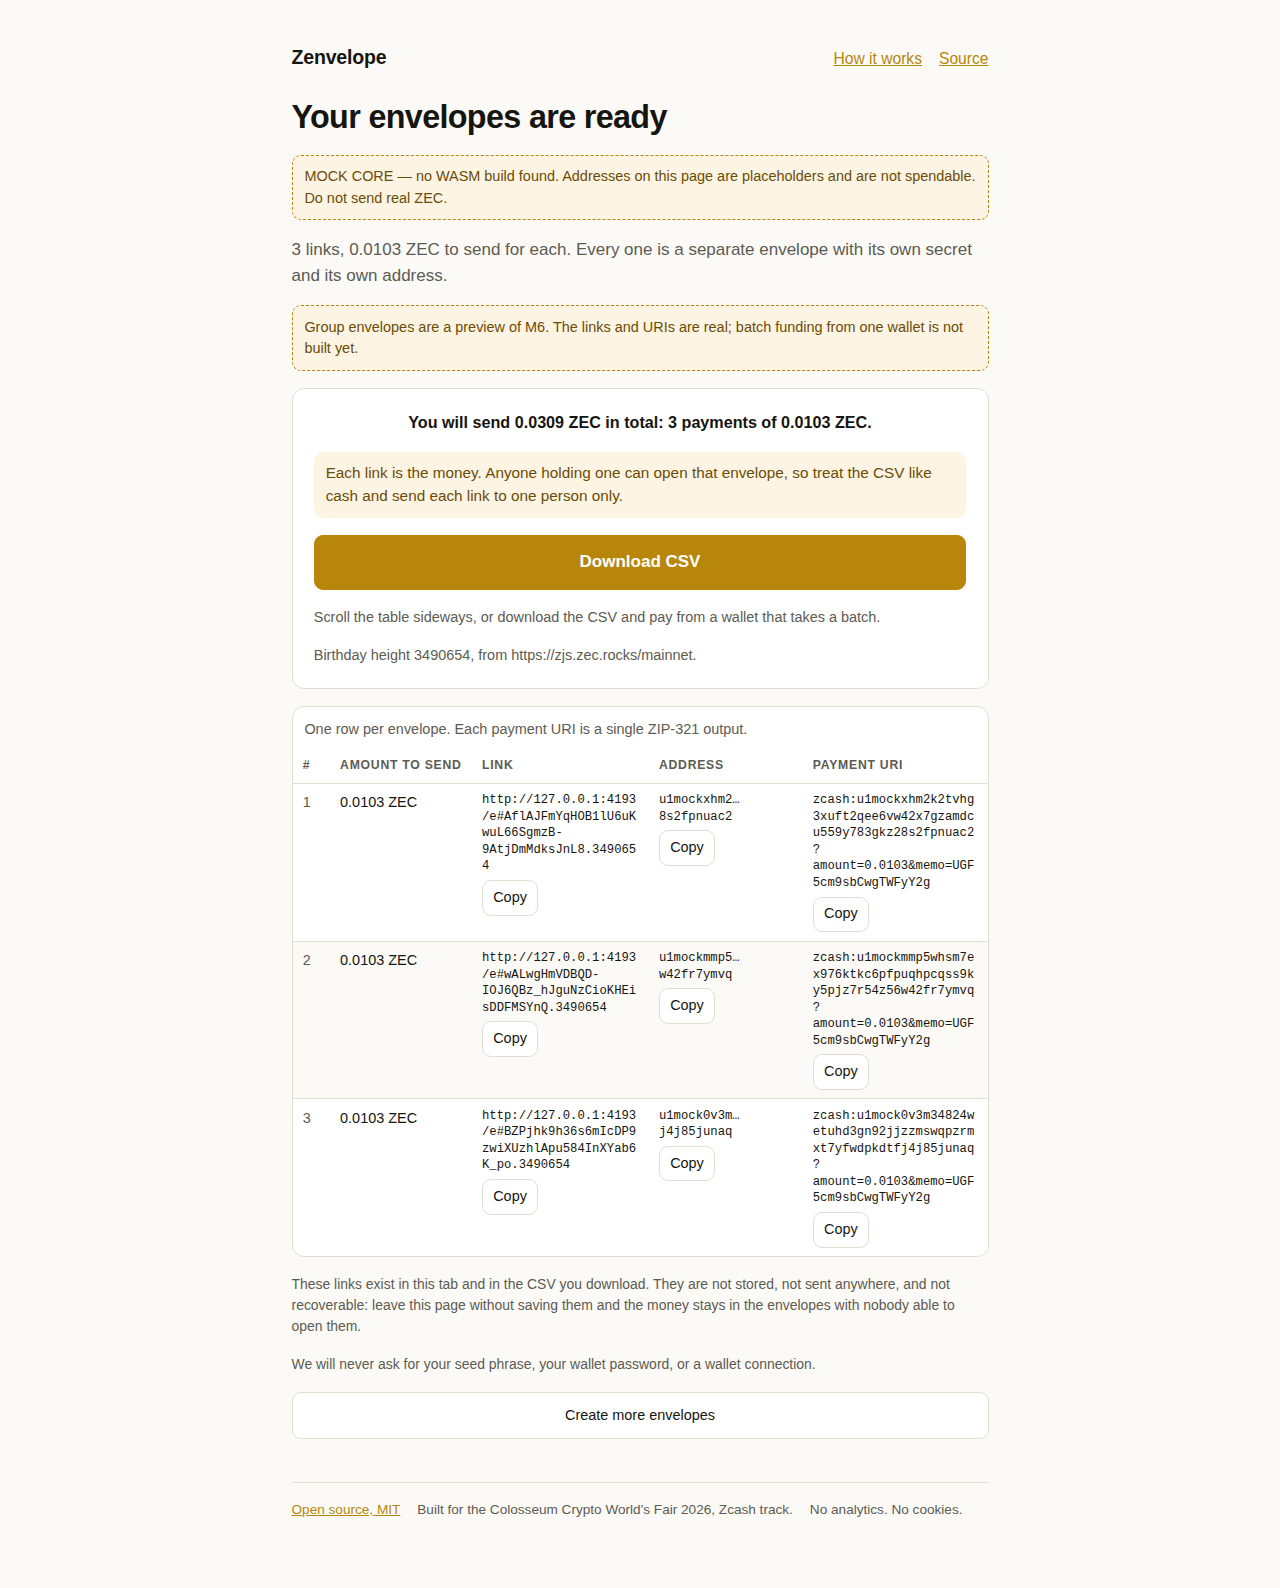
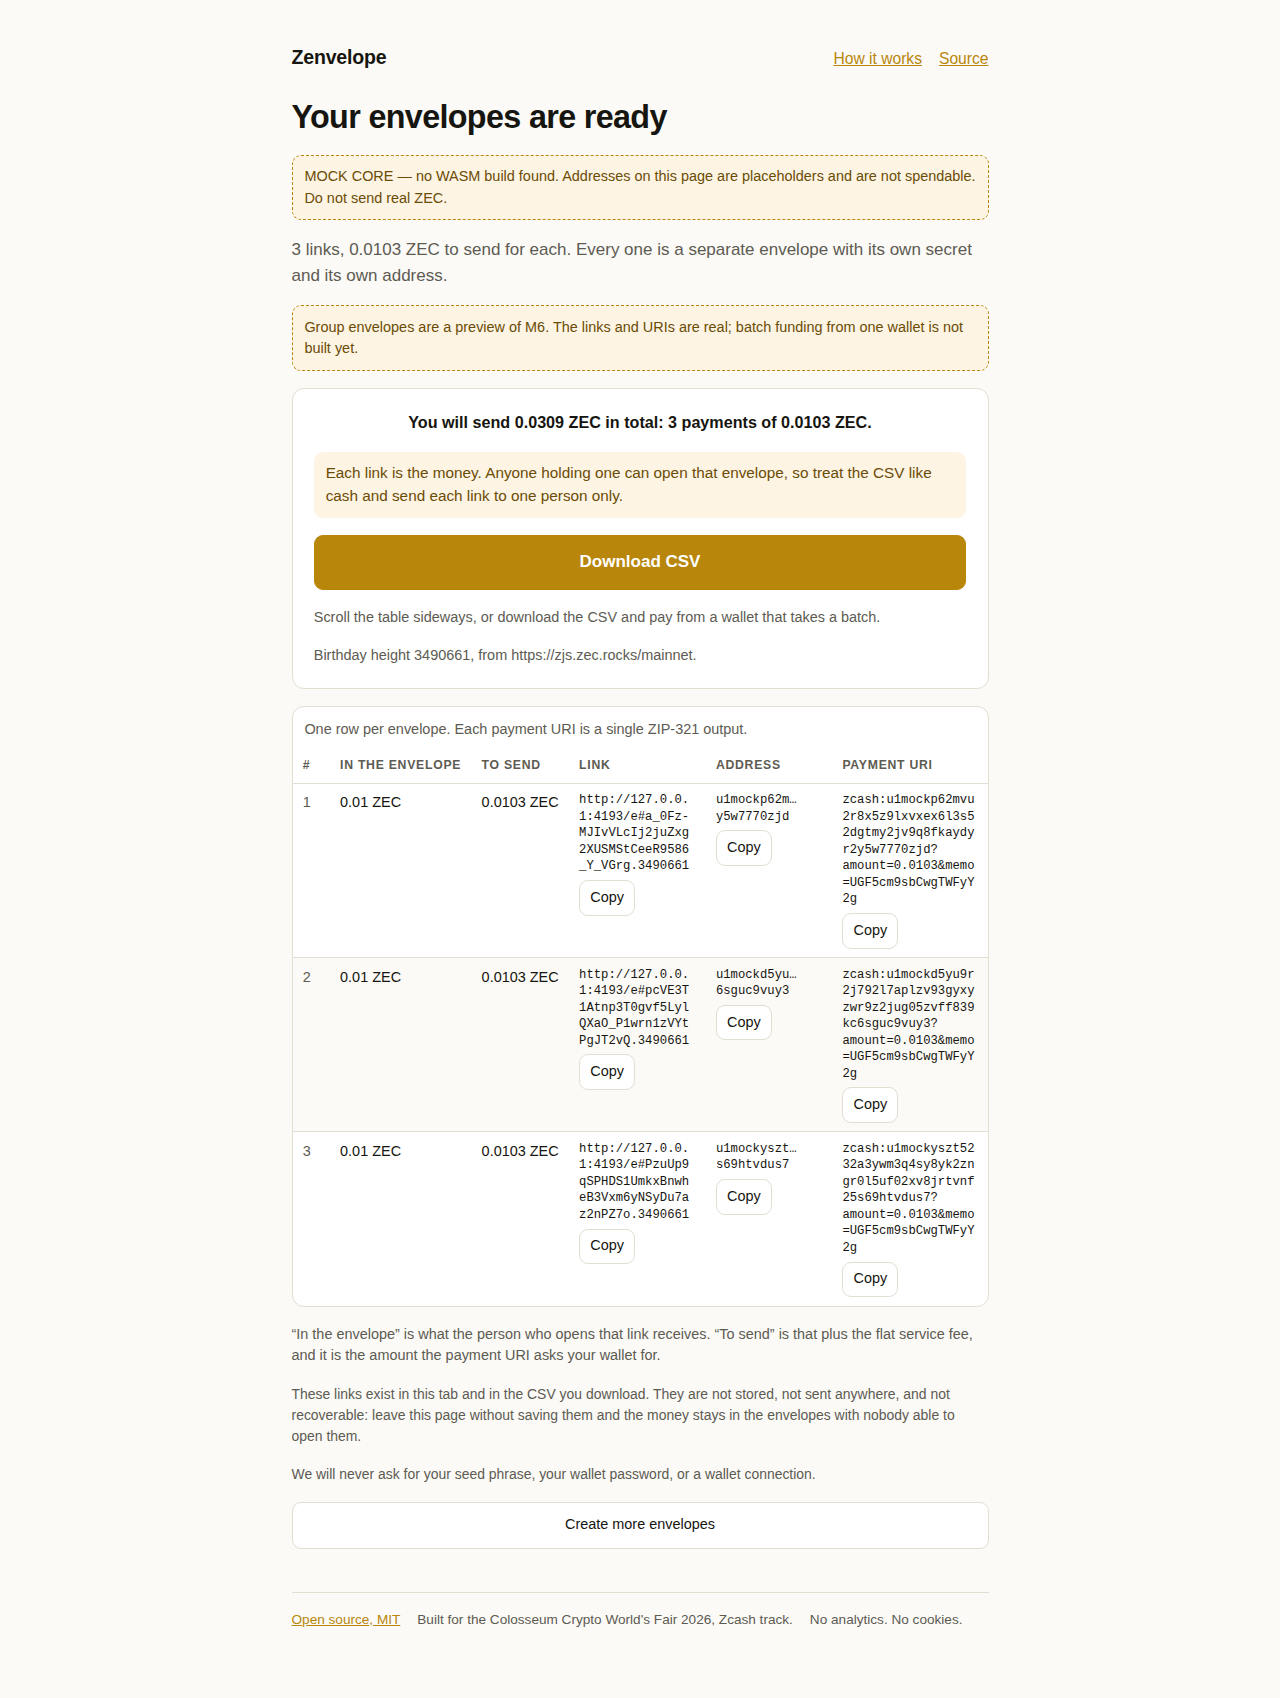
Group CSV: separate envelope_zec from send_zec
One "amount" column answered two questions at once, which is how somebody
underpays fifty envelopes in a row. The CSV now carries both:

  envelope_zec  what the person who opens that link receives
  send_zec      that plus the flat service fee, which is exactly the amount
                the payment_uri asks the sender's wallet for

The group table gains the matching pair of columns, "In the envelope" and
"To send", with a line under it saying which is which, and GroupEnvelope
carries envelopeZat/envelopeZec beside sendZat/sendZec instead of one
amountZat/amount. groupTotal still sums what the sender pays.

Header row is now index,link,address,envelope_zec,send_zec,memo,payment_uri.

vitest 230 passed in 14 files; MOCK e2e 12 passed, 15 skipped, which reads
the downloaded CSV back and checks both columns against the URI.

diff --git a/web/src/lib/group.ts b/web/src/lib/group.ts
@@ -39,10 +39,18 @@ export interface GroupEnvelope {
    * amounts and memos, and a spreadsheet is the wrong place to leave it.
    */
   ufvk: string;
-  /** Zatoshi the sender must send for this envelope: amount + flat service fee. */
-  amountZat: bigint;
-  /** The same number as a ZEC decimal string, matching the URI's `amount=`. */
-  amount: string;
+  /** Zatoshi the person who opens this envelope receives. */
+  envelopeZat: bigint;
+  /** The same number as a ZEC decimal string: the CSV's `envelope_zec`. */
+  envelopeZec: string;
+  /** Zatoshi the sender must send: the envelope plus the flat service fee. */
+  sendZat: bigint;
+  /**
+   * The same number as a ZEC decimal string: the CSV's `send_zec`, and exactly
+   * the `amount=` the URI carries. Paying the URI and paying this column are
+   * therefore the same act, which is the point of having both.
+   */
+  sendZec: string;
   /** The sender's message. The same for every envelope in a group; "" when none. */
   memo: string;
   /** Single-output ZIP-321, exactly what a wallet is handed. */
@@ -122,8 +130,10 @@ export async function generateGroup(
   }
   if (req.envelopeZat <= 0n) throw new Error("the envelope amount must be positive");
 
-  const amountZat = req.envelopeZat + req.feeZat;
-  const amount = zatToZecString(amountZat);
+  const envelopeZat = req.envelopeZat;
+  const envelopeZec = zatToZecString(envelopeZat);
+  const sendZat = envelopeZat + req.feeZat;
+  const sendZec = zatToZecString(sendZat);
   const seen = new Set<string>();
   const out: GroupEnvelope[] = [];
 
@@ -136,7 +146,7 @@ export async function generateGroup(
     const fragment = await core.build_fragment(secret, req.birthday);
     const uri = await core.payment_uri(
       derived.address,
-      amountZat,
+      sendZat,
       req.message === "" ? undefined : req.message,
     );
     out.push({
@@ -144,8 +154,10 @@ export async function generateGroup(
       link: `${req.origin}/e#${fragment}`,
       address: derived.address,
       ufvk: derived.ufvk,
-      amountZat,
-      amount,
+      envelopeZat,
+      envelopeZec,
+      sendZat,
+      sendZec,
       memo: req.message,
       uri,
     });
@@ -156,12 +168,21 @@ export async function generateGroup(
 
 /* --------------------------------------------------------------------- CSV */
 
-/** The header row, in order. Fixed: a spreadsheet somewhere will depend on it. */
+/**
+ * The header row, in order. Fixed: a spreadsheet somewhere will depend on it.
+ *
+ * Two amount columns, because they answer two different questions and conflating
+ * them is how somebody underpays fifty envelopes at once. `envelope_zec` is what
+ * the person who opens that link receives; `send_zec` is what the sender must
+ * actually send for it — the envelope plus the flat service fee — and it is the
+ * same number the `payment_uri` carries in its `amount=`.
+ */
 export const CSV_COLUMNS = [
   "index",
   "link",
   "address",
-  "amount",
+  "envelope_zec",
+  "send_zec",
   "memo",
   "payment_uri",
 ] as const;
@@ -191,11 +212,6 @@ export function csvCell(value: string): string {
 /**
  * The whole file: a header row and one row per envelope, CRLF terminated per
  * RFC 4180 so Excel on Windows reads it without a fight.
- *
- * `amount` is what the sender must actually send for that envelope — the
- * envelope amount plus the flat service fee — and it is the same number the
- * `payment_uri` carries in its `amount=`. Paying the URI and paying the amount
- * column are therefore the same act, which is the point of having both.
  */
 export function buildCsv(rows: readonly GroupEnvelope[]): string {
   const lines = [CSV_COLUMNS.join(",")];
@@ -205,7 +221,8 @@ export function buildCsv(rows: readonly GroupEnvelope[]): string {
         csvCell(String(r.index)),
         csvCell(r.link),
         csvCell(r.address),
-        csvCell(r.amount),
+        csvCell(r.envelopeZec),
+        csvCell(r.sendZec),
         csvCell(r.memo),
         csvCell(r.uri),
       ].join(","),
@@ -223,7 +240,7 @@ export function csvFilename(count: number, now: Date = new Date()): string {
 
 /** The sum the sender is about to pay, as a ZEC string. */
 export function groupTotal(rows: readonly GroupEnvelope[]): string {
-  return zatToZecString(rows.reduce((acc, r) => acc + r.amountZat, 0n));
+  return zatToZecString(rows.reduce((acc, r) => acc + r.sendZat, 0n));
 }
 
 /**

diff --git a/web/src/lib/group.test.ts b/web/src/lib/group.test.ts
@@ -104,12 +104,17 @@ describe("generateGroup over the core worker", () => {
     }
   });
 
-  it("charges the same amount for each: envelope plus the flat fee", async () => {
+  it("separates what the recipient gets from what the sender sends", async () => {
     const rows = await generateGroup(core, REQ);
     for (const r of rows) {
-      expect(r.amountZat).toBe(1_030_000n);
-      expect(r.amount).toBe("0.0103");
+      expect(r.envelopeZat).toBe(1_000_000n);
+      expect(r.envelopeZec).toBe("0.01");
+      expect(r.sendZat).toBe(1_030_000n);
+      expect(r.sendZec).toBe("0.0103");
+      // The ZIP-321 amount is the send amount, fee included: paying the URI and
+      // paying the send_zec column are the same act.
       expect(r.uri).toContain("amount=0.0103");
+      expect(r.sendZat - r.envelopeZat).toBe(REQ.feeZat);
     }
     expect(groupTotal(rows)).toBe("0.0309");
   });
@@ -210,9 +215,9 @@ describe("buildCsv", () => {
     lines = csv.split("\r\n");
   });
 
-  it("starts with the documented header, in order", () => {
-    expect(lines[0]).toBe("index,link,address,amount,memo,payment_uri");
-    expect(CSV_COLUMNS).toHaveLength(6);
+  it("starts with the documented header, in order, with both amount columns", () => {
+    expect(lines[0]).toBe("index,link,address,envelope_zec,send_zec,memo,payment_uri");
+    expect(CSV_COLUMNS).toHaveLength(7);
   });
 
   it("has one row per envelope and a trailing CRLF", () => {
@@ -227,10 +232,21 @@ describe("buildCsv", () => {
       expect(cells[0]).toBe(String(r.index));
       expect(cells[1]).toBe(r.link);
       expect(cells[2]).toBe(r.address);
-      expect(cells[3]).toBe(r.amount);
-      expect(cells[4]).toBe(r.memo);
+      expect(cells[3]).toBe(r.envelopeZec);
+      expect(cells[4]).toBe(r.sendZec);
+      expect(cells[5]).toBe(r.memo);
       expect(lines[i + 1]).toContain(r.uri);
     });
+  });
+
+  it("puts the envelope amount and the send amount in their own columns", () => {
+    for (let i = 0; i < rows.length; i++) {
+      const cells = lines[i + 1].split(",");
+      expect(cells[3]).toBe("0.01"); // what the recipient gets
+      expect(cells[4]).toBe("0.0103"); // what the sender sends, fee included
+      // And the second one is what the wallet is asked for.
+      expect(lines[i + 1]).toContain(`amount=${cells[4]}`);
+    }
   });
 
   it("quotes a memo with a comma in it rather than breaking the row", async () => {
@@ -250,7 +266,7 @@ describe("buildCsv", () => {
   });
 
   it("is empty but well formed for no rows", () => {
-    expect(buildCsv([])).toBe("index,link,address,amount,memo,payment_uri\r\n");
+    expect(buildCsv([])).toBe("index,link,address,envelope_zec,send_zec,memo,payment_uri\r\n");
   });
 
   it("does not contain the word this product never uses", () => {
@@ -267,14 +283,16 @@ describe("csvFilename", () => {
 });
 
 describe("groupTotal", () => {
-  it("sums in zatoshi, never in floating point", () => {
+  it("sums what the sender pays, in zatoshi, never in floating point", () => {
     const rows: GroupEnvelope[] = Array.from({ length: 3 }, (_, i) => ({
       index: i + 1,
       link: "",
       address: "",
       ufvk: "",
-      amountZat: 10_000_003n,
-      amount: "0.10000003",
+      envelopeZat: 9_970_003n,
+      envelopeZec: "0.09970003",
+      sendZat: 10_000_003n,
+      sendZec: "0.10000003",
       memo: "",
       uri: "",
     }));

diff --git a/web/e2e/m4-group.spec.ts b/web/e2e/m4-group.spec.ts
@@ -161,9 +161,22 @@ describeOnMock("M4: group envelopes (M6 preview)", () => {
     await expect(rows).toHaveCount(3);
     await expect(page.getByTestId("group-total")).toContainText("0.0309 ZEC in total");
 
+    // The header names both amounts rather than one ambiguous "Amount". Read as text
+    // content, not innerText: the column heads are uppercased by CSS, not by the copy.
+    const headers = await page.getByTestId("group-table").locator("thead th").allTextContents();
+    expect(headers).toEqual([
+      "#",
+      "In the envelope",
+      "To send",
+      "Link",
+      "Address",
+      "Payment URI",
+    ]);
+
     const links = await page.getByTestId("row-link").allInnerTexts();
     const uris = await page.getByTestId("row-uri").allInnerTexts();
-    const amounts = await page.getByTestId("row-amount").allInnerTexts();
+    const envelopeAmounts = await page.getByTestId("row-envelope").allInnerTexts();
+    const sendAmounts = await page.getByTestId("row-send").allInnerTexts();
     expect(new Set(links).size).toBe(3);
     expect(new Set(uris).size).toBe(3);
 
@@ -172,7 +185,9 @@ describeOnMock("M4: group envelopes (M6 preview)", () => {
       // Single-output ZIP-321: one address, one amount, no indexed parameters.
       expect(uris[i]).toMatch(/^zcash:[a-z0-9]+\?amount=0\.0103&memo=[A-Za-z0-9_-]+$/);
       expect(uris[i]).not.toMatch(/address\.\d/);
-      expect(amounts[i]).toBe("0.0103 ZEC");
+      // Two amount columns: what the recipient gets, and what the sender sends.
+      expect(envelopeAmounts[i]).toBe("0.01 ZEC");
+      expect(sendAmounts[i]).toBe("0.0103 ZEC");
     }
 
     // The link is the money, and the page says so.
@@ -197,14 +212,18 @@ describeOnMock("M4: group envelopes (M6 preview)", () => {
     const csv = readFileSync(path!, "utf8");
     const lines = csv.split("\r\n");
 
-    expect(lines[0]).toBe("index,link,address,amount,memo,payment_uri");
+    expect(lines[0]).toBe("index,link,address,envelope_zec,send_zec,memo,payment_uri");
     expect(lines).toHaveLength(5); // header + 3 rows + the trailing empty
     for (let i = 0; i < 3; i++) {
       const row = lines[i + 1];
       expect(row.startsWith(`${i + 1},`)).toBe(true);
       expect(row).toContain(links[i]);
       expect(row).toContain(uris[i]);
-      expect(row).toContain("0.0103");
+      // Both amounts, in their own columns, and the send amount is the URI's.
+      const cells = row.split(",");
+      expect(cells[3]).toBe("0.01");
+      expect(cells[4]).toBe("0.0103");
+      expect(row).toContain("amount=0.0103");
       // The memo has a comma in it, so it has to be quoted rather than split.
       expect(row).toContain('"Payroll, March"');
     }

diff --git a/web/src/pages/Create.tsx b/web/src/pages/Create.tsx
@@ -479,7 +479,8 @@ function GroupResult({
           <thead>
             <tr>
               <th scope="col">{groupCopy.columns.index}</th>
-              <th scope="col">{groupCopy.columns.amount}</th>
+              <th scope="col">{groupCopy.columns.envelope}</th>
+              <th scope="col">{groupCopy.columns.send}</th>
               <th scope="col">{groupCopy.columns.link}</th>
               <th scope="col">{groupCopy.columns.address}</th>
               <th scope="col">{groupCopy.columns.uri}</th>
@@ -489,8 +490,11 @@ function GroupResult({
             {rows.map((r) => (
               <tr key={r.index} data-testid="group-row">
                 <td className="col-index">{r.index}</td>
-                <td className="col-amount" data-testid="row-amount">
-                  {r.amount} ZEC
+                <td className="col-amount" data-testid="row-envelope">
+                  {r.envelopeZec} ZEC
+                </td>
+                <td className="col-amount" data-testid="row-send">
+                  {r.sendZec} ZEC
                 </td>
                 <td>
                   <code className="cell mono" data-testid="row-link">
@@ -521,6 +525,10 @@ function GroupResult({
           </tbody>
         </table>
       </div>
+
+      <p className="hint" data-testid="group-columns-note">
+        {groupCopy.columnsNote}
+      </p>
 
       <p className="fine" data-testid="group-memory">
         {groupCopy.memoryFine}

diff --git a/web/src/copy/en.ts b/web/src/copy/en.ts
@@ -223,11 +223,17 @@ export const group = {
   download: "Download CSV",
   columns: {
     index: "#",
-    amount: "Amount to send",
+    /** What the person who opens that link receives. The CSV's `envelope_zec`. */
+    envelope: "In the envelope",
+    /** Envelope plus the flat service fee: the URI's amount, and `send_zec`. */
+    send: "To send",
     link: "Link",
     address: "Address",
     uri: "Payment URI",
   },
+  /** Said under the table, because two amount columns need one line of explanation. */
+  columnsNote:
+    "“In the envelope” is what the person who opens that link receives. “To send” is that plus the flat service fee, and it is the amount the payment URI asks your wallet for.",
   warn: "Each link is the money. Anyone holding one can open that envelope, so treat the CSV like cash and send each link to one person only.",
   memoryFine:
     "These links exist in this tab and in the CSV you download. They are not stored, not sent anywhere, and not recoverable: leave this page without saving them and the money stays in the envelopes with nobody able to open them.",

diff --git a/README.md b/README.md
@@ -81,8 +81,11 @@ never a payment by the recipient to open an envelope.
 **Group envelopes (preview).** The create form already takes an amount per envelope
 and a count of 1 to 50: above one it generates that many secrets and links in the
 browser, shows a table of single-output ZIP-321 URIs, and offers a CSV
-(`index,link,address,amount,memo,payment_uri`). The secrets live in the tab and in
-that file and nowhere else. Batch funding from one wallet is what M6 still owes.
+(`index,link,address,envelope_zec,send_zec,memo,payment_uri`). Two amount columns,
+because they answer two questions: `envelope_zec` is what the person who opens that
+link receives, and `send_zec` is that plus the flat service fee — the amount the
+`payment_uri` asks the sender's wallet for. The secrets live in the tab and in that
+file and nowhere else. Batch funding from one wallet is what M6 still owes.
 
 ## Fee
 

diff --git a/docs/BUILD_SPEC.md b/docs/BUILD_SPEC.md
@@ -75,7 +75,8 @@ M4 (in progress 2026-09-21) Drainer-safe copy, trust-boundary screens, in-browse
    sweep is 23 s tap to done against M3's 49 s and the progress screen keeps
    painting throughout; the sender-side copy is one audited module with "claim"
    banned outright; the trust boundary is its own screen behind a required tick;
-   and group envelopes with a CSV export ship early as an M6 preview. Transcript in web/docs/M4-VERIFICATION.md.
+   and group envelopes with a two-column CSV (envelope_zec, send_zec) ship early
+   as an M6 preview. Transcript in web/docs/M4-VERIFICATION.md.
 M5 Solana receive option via 1Click, with the warning screen and a fresh Solana
    keypair path. Demo video 2 recorded here.
 M6 Group envelopes and CSV export.
